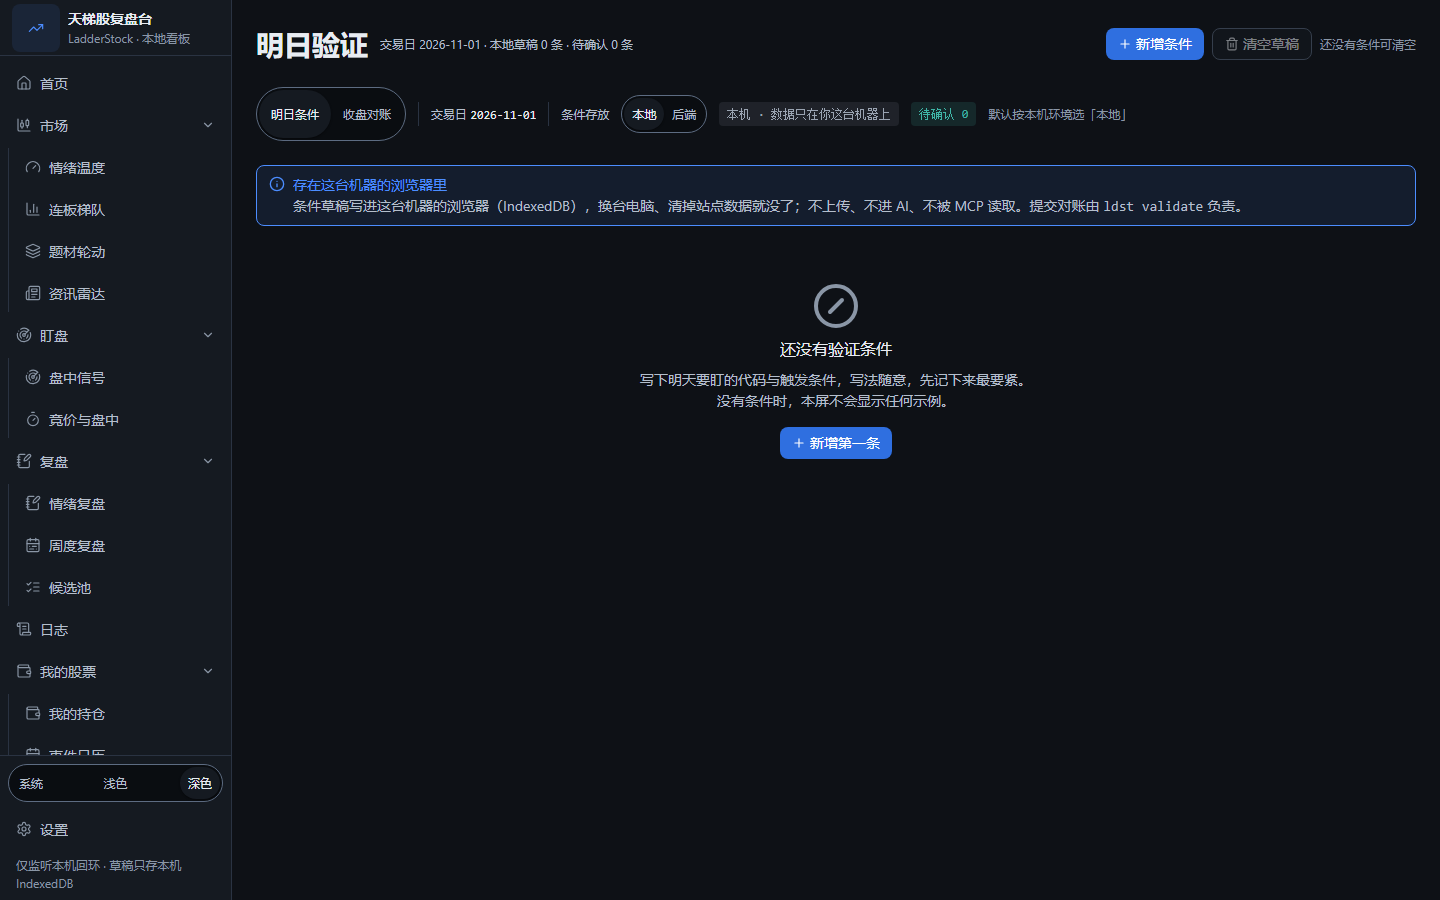
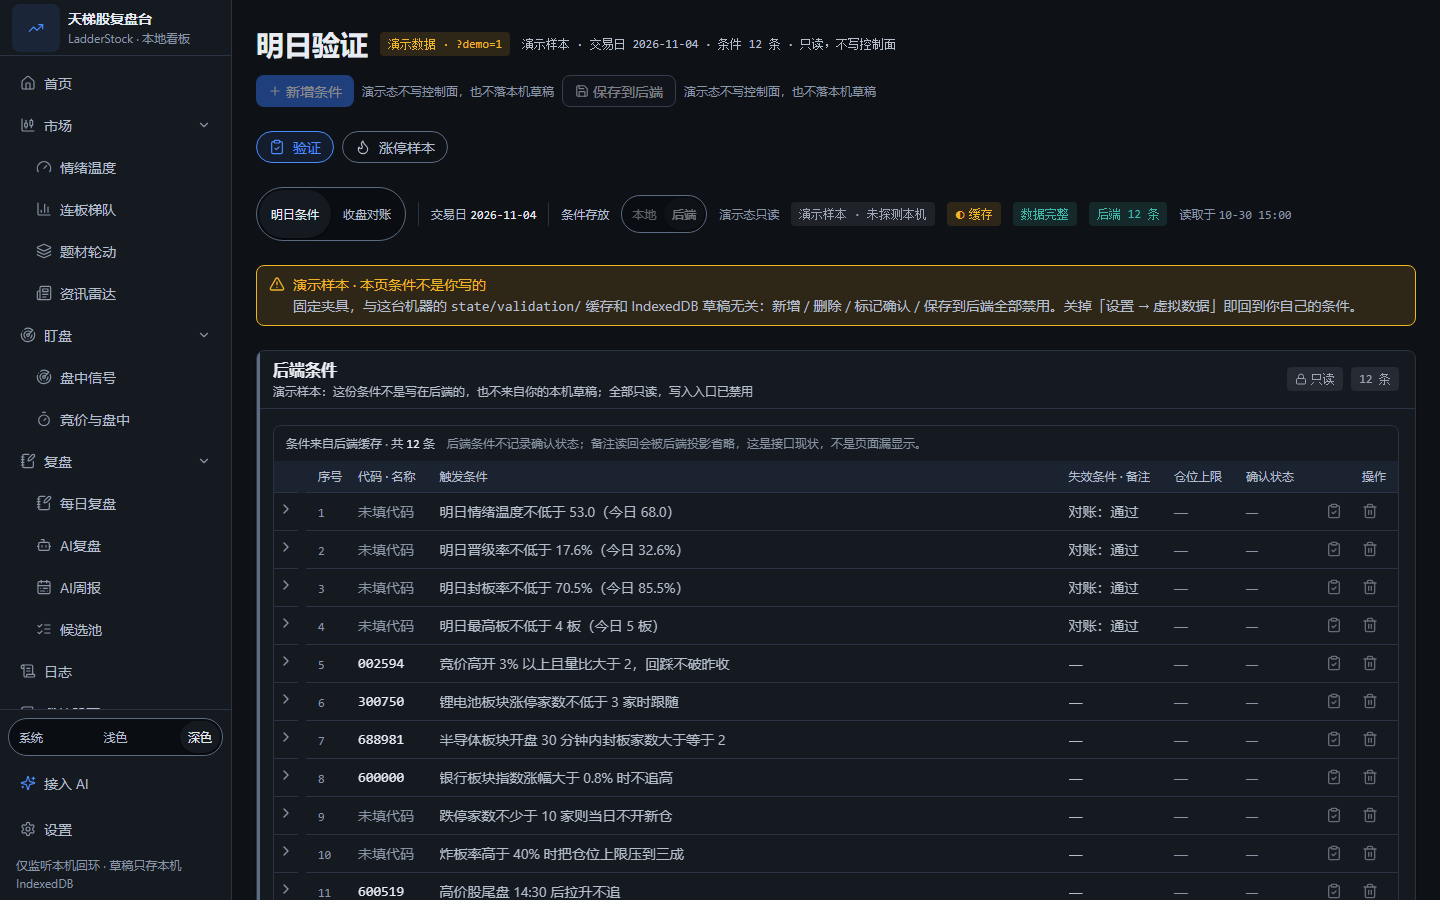
refactor(validate): 条件表体收口到 DataTable（QUOT-332）
手写的 ROW_GRID 网格换成 components/ui/Table.tsx 的 DataTable：
列定义、行内编辑走 expandable、合计/待确认/已确认计数走 summaryRow，
序号/代码/仓位上限保留 .ldst-num，操作列右对齐基线不变。只动视觉层，
数据结构与持久化未改。

diff --git a/frontend/src/screens/ValidateScreen.tsx b/frontend/src/screens/ValidateScreen.tsx
@@ -190,10 +190,6 @@ function signatureOf(rows: Array<{ code: string; trigger: string }>): string {
     .join('\n')
 }
 
-/** 列宽走 §7.3 的 {56, 88} 档；长文本列吃剩余宽度。 */
-const ROW_GRID =
-  'grid-cols-[3.5rem_minmax(0,1fr)_minmax(0,1.5fr)_minmax(0,1.5fr)_5.5rem_5.5rem_5.5rem]'
-
 /**
  * 首屏密度目标（UI-SPEC §11.0 + PRD §5.2）：1440×900 下第一屏要同时看到 ≥12 行。
  * 骨架用它占位，避免「骨架 6 行 / 真实 12 行」这种形状不同构（§11.0 最后一条）。
@@ -644,6 +640,26 @@ export default function ValidateScreen() {
   // ---- 条件表 ----
   const renderTable = (items: ConditionRow[], sourceOfRows: ValidationSource, locked: boolean) => {
     const isLocal = sourceOfRows === 'local'
+    const pendingCount = items.filter((row) => row.confirmed === false).length
+    const confirmedCount = items.filter((row) => row.confirmed === true).length
+    const caption = (
+      <div className="flex flex-wrap items-center gap-3">
+        <span className="text-caption text-text-secondary">
+          {isLocal ? '条件来自本机草稿' : '条件来自后端缓存'} · 共 <span className="ldst-num text-text">{formatInt(items.length)}</span> 条
+          {isLocal && (
+            <>
+              {' · '}待确认 <span className="ldst-num text-text">{formatInt(pendingCount)}</span> · 已确认{' '}
+              <span className="ldst-num text-text">{formatInt(confirmedCount)}</span>
+            </>
+          )}
+        </span>
+        <span className="text-caption text-text-muted">
+          {isLocal
+            ? '确认只代表你的判断已定，不代表行情验证通过。'
+            : '后端条件不记录确认状态；备注读回会被后端投影省略，这是接口现状，不是页面漏显示。'}
+        </span>
+      </div>
+    )
     return (
       <SectionCard
         title={isLocal ? '条件草稿' : '后端条件'}
@@ -665,114 +681,134 @@ export default function ValidateScreen() {
           </>
         }
       >
-        <div className="overflow-auto" style={{ maxHeight: 'calc(100vh - 280px)' }}>
-          <div className="min-w-table-min">
-            <div
-              className={`sticky top-0 z-sticky grid h-control ${ROW_GRID} items-center gap-3 border-b border-border bg-surface-2 px-3 text-caption font-medium text-text-secondary`}
-            >
-              <span>序号</span>
-              <span>代码 · 名称</span>
-              <span>触发条件</span>
-              <span>失效条件 · 备注</span>
-              <span>仓位上限</span>
-              <span>确认状态</span>
-              <span className="text-right">操作</span>
-            </div>
-
-            {items.map((row, index) => {
-              const fieldId = `condition-${row.key}`
-              const isOpen = expanded === row.key
-              return (
-                <div key={row.key} className="border-b border-border last:border-b-0">
-                  {/* §11.3 行高就是 h-row（38px）token：`py-2` 会让操作按钮把行撑到 44px，
-                      12 行多出 72px 正好把首屏最后一行推到折叠线以下。 */}
-                  <div
-                    className={`relative grid min-h-row ${ROW_GRID} items-center gap-3 px-3 py-1 transition-colors duration-fast ease-ldst hover:bg-surface-3`}
-                    aria-describedby={row.confirmed === false ? `${fieldId}-pending` : undefined}
-                  >
-                    <span
-                      aria-hidden="true"
-                      className={`absolute inset-y-0 left-0 w-status-bar ${
-                        row.confirmed === null ? 'bg-border-strong' : row.confirmed ? 'bg-ok' : 'bg-warn'
-                      }`}
+        <DataTable<ConditionRow>
+          rows={items}
+          rowKey={(row) => row.key}
+          maxHeight="calc(100vh - 280px)"
+          caption={caption}
+          summaryRow={() => caption}
+          rowClassName={(row) => {
+            const tone = row.confirmed === null ? 'bg-border-strong' : row.confirmed ? 'bg-ok' : 'bg-warn'
+            return `[&>td:last-child]:relative [&>td:last-child]:before:absolute [&>td:last-child]:before:inset-y-0 [&>td:last-child]:before:left-0 [&>td:last-child]:before:w-status-bar [&>td:last-child]:before:content-[''] [&>td:last-child]:${tone}`
+          }}
+          columns={[
+            {
+              key: 'index',
+              header: '序号',
+              width: '56px',
+              align: 'left',
+              render: (row) => (
+                <span className="ldst-num text-caption text-text-muted">{items.findIndex((item) => item.key === row.key) + 1}</span>
+              ),
+            },
+            {
+              key: 'code',
+              header: '代码 · 名称',
+              width: '176px',
+              truncate: true,
+              cellTitle: (row) => row.code || '未填代码',
+              render: (row) =>
+                row.code ? (
+                  <span className="ldst-num">{row.code}</span>
+                ) : (
+                  <span className="text-text-muted">未填代码</span>
+                ),
+            },
+            {
+              key: 'trigger',
+              header: '触发条件',
+              truncate: true,
+              render: (row) => <span className="text-text-secondary">{row.trigger || MISSING}</span>,
+            },
+            {
+              key: 'note',
+              header: '失效条件 · 备注',
+              truncate: true,
+              cellTitle: (row) =>
+                row.note ??
+                '后端读投影不给自由文本备注（server.py:_validation_conditions 只把对账结论写进这一列）',
+              render: (row) => <span className="text-text-secondary">{row.note || MISSING}</span>,
+            },
+            {
+              key: 'position',
+              header: '仓位上限',
+              width: '112px',
+              render: () => (
+                <span className="text-text-muted" title="草稿结构（stores/validationDraft.ts）不记录仓位上限，用备注承载">
+                  {MISSING}
+                </span>
+              ),
+            },
+            {
+              key: 'confirmed',
+              header: '确认状态',
+              width: '88px',
+              render: (row) =>
+                row.confirmed === null ? (
+                  <span className="text-caption text-text-muted" title="后端条件不记录确认状态">
+                    {MISSING}
+                  </span>
+                ) : row.confirmed ? (
+                  <Badge tone="ok">已确认</Badge>
+                ) : (
+                  <Badge tone="warn">
+                    <span id={`condition-${row.key}-pending`}>待确认</span>
+                  </Badge>
+                ),
+            },
+            {
+              key: 'actions',
+              header: <span className="block text-right">操作</span>,
+              width: '88px',
+              align: 'right',
+              render: (row) => {
+                const fieldId = `condition-${row.key}`
+                const isOpen = expanded === row.key
+                return (
+                  <span className="flex items-center justify-end gap-1">
+                    <IconButton
+                      label={isOpen ? '收起编辑' : '编辑该条'}
+                      aria-expanded={isOpen}
+                      aria-controls={`${fieldId}-editor`}
+                      disabled={locked}
+                      onClick={() => setExpanded(isOpen ? null : row.key)}
+                      icon={<ClipboardCheck className="size-4" aria-hidden="true" />}
                     />
-                    <span className="ldst-num text-caption text-text-muted">{index + 1}</span>
-                    <span className="min-w-0 truncate text-body text-text" title={row.code || '未填代码'}>
-                      {row.code ? (
-                        <span className="ldst-num">{row.code}</span>
-                      ) : (
-                        <span className="text-text-muted">未填代码</span>
-                      )}
-                    </span>
-                    <span className="min-w-0 truncate text-body text-text-secondary" title={row.trigger || undefined}>
-                      {row.trigger || MISSING}
-                    </span>
-                    <span
-                      className="min-w-0 truncate text-body text-text-secondary"
-                      title={
-                        row.note ??
-                        '后端读投影不给自由文本备注（server.py:_validation_conditions 只把对账结论写进这一列）'
-                      }
-                    >
-                      {row.note || MISSING}
-                    </span>
-                    <span
-                      className="text-body text-text-muted"
-                      title="草稿结构（stores/validationDraft.ts）不记录仓位上限，用备注承载"
-                    >
-                      {MISSING}
-                    </span>
-                    <span>
-                      {row.confirmed === null ? (
-                        <span className="text-caption text-text-muted" title="后端条件不记录确认状态">
-                          {MISSING}
-                        </span>
-                      ) : row.confirmed ? (
-                        <Badge tone="ok">已确认</Badge>
-                      ) : (
-                        <Badge tone="warn">
-                          <span id={`${fieldId}-pending`}>待确认</span>
-                        </Badge>
-                      )}
-                    </span>
-                    <span className="flex items-center justify-end gap-1">
+                    {isLocal && (
                       <IconButton
-                        label={isOpen ? '收起编辑' : '编辑该条'}
-                        aria-expanded={isOpen}
-                        aria-controls={`${fieldId}-editor`}
+                        label={row.confirmed ? '取消确认' : '标记确认'}
+                        aria-pressed={row.confirmed === true}
                         disabled={locked}
-                        onClick={() => setExpanded(isOpen ? null : row.key)}
-                        icon={<ClipboardCheck className="size-4" aria-hidden="true" />}
+                        onClick={() => toggleConfirmed(row.key)}
+                        icon={
+                          row.confirmed ? (
+                            <X className="size-4" aria-hidden="true" />
+                          ) : (
+                            <Check className="size-4" aria-hidden="true" />
+                          )
+                        }
                       />
-                      {isLocal && (
-                        <IconButton
-                          label={row.confirmed ? '取消确认' : '标记确认'}
-                          aria-pressed={row.confirmed === true}
-                          disabled={locked}
-                          onClick={() => toggleConfirmed(row.key)}
-                          icon={
-                            row.confirmed ? (
-                              <X className="size-4" aria-hidden="true" />
-                            ) : (
-                              <Check className="size-4" aria-hidden="true" />
-                            )
-                          }
-                        />
-                      )}
-                      <IconButton
-                        label="删除该条条件"
-                        disabled={locked}
-                        onClick={() => deleteRow(row)}
-                        icon={<Trash2 className="size-4" aria-hidden="true" />}
-                      />
-                    </span>
-                  </div>
-
-                  {isOpen && (
-                    <div
-                      id={`${fieldId}-editor`}
-                      className="grid gap-4 border-t border-border bg-sunken p-4 desk:grid-cols-12"
-                    >
+                    )}
+                    <IconButton
+                      label="删除该条条件"
+                      disabled={locked}
+                      onClick={() => deleteRow(row)}
+                      icon={<Trash2 className="size-4" aria-hidden="true" />}
+                    />
+                  </span>
+                )
+              },
+            },
+          ]}
+          expandable={{
+            label: expanded ? '收起编辑' : '编辑该条',
+            /* 新增行会先 `setExpanded` 再进下一帧：组件挂载时的初值必须对齐屏侧状态，否则首帧是收起的 */
+            defaultExpanded: expanded === null ? [] : [expanded],
+            render: (row) => {
+              const fieldId = `condition-${row.key}`
+              return (
+                <div id={`${fieldId}-editor`}>
+                  <div className="grid gap-4 desk:grid-cols-12">
                       <Field label="代码 / 标的" htmlFor={`${fieldId}-code`} className="desk:col-span-3" hint="六位代码或简称，可留空（纯情绪条件）。">
                         <Input
                           id={`${fieldId}-code`}
@@ -813,18 +849,17 @@ export default function ValidateScreen() {
                         />
                       </Field>
                     </div>
-                  )}
                 </div>
               )
-            })}
-          </div>
-        </div>
+            },
+          }}
+        />
 
         <p className="mt-3 text-caption text-text-muted">
           「仓位上限」列显示 {MISSING}：两种来源的结构都不记录该字段（本轮不改 store），需要时写进「失效条件 · 备注」。
           {isLocal
-            ? '确认只代表你的判断已定，不代表行情验证通过。'
-            : '后端条件没有确认概念，那一列留空；备注写入后由后端读取接口省略，这是后端投影的现状，不是页面漏显示。'}
+            ? '「待确认 / 已确认」只对本地草稿成立。'
+            : '后端条件没有确认概念，那一列留空。'}
         </p>
       </SectionCard>
     )
